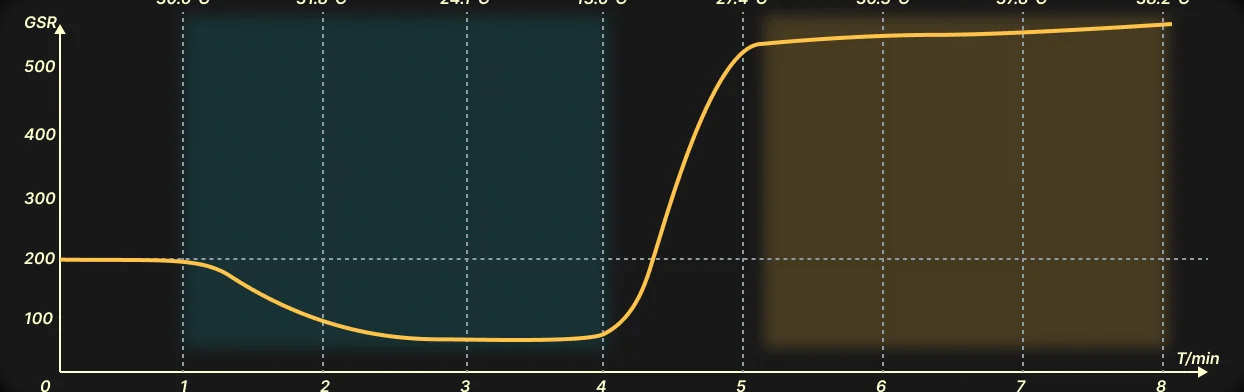
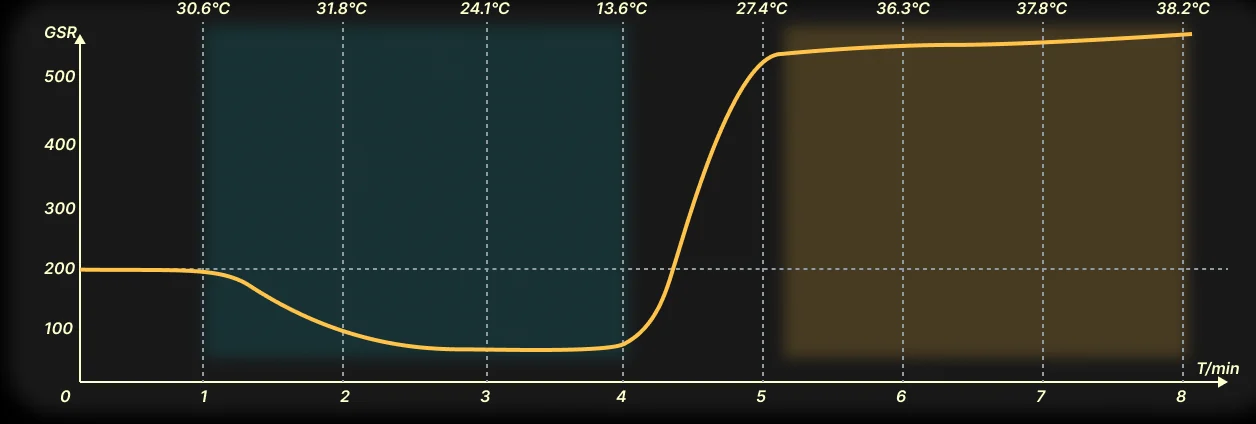
Bio-Adaptive: full chart crops, split schematic, cleaner wearable and bed layouts, text-free heating/cooling renders
Claude-Session: https://claude.ai/code/session_01XeHpuxAMHs1wL3HRrsMEM6

diff --git a/src/pages/BioCaseStudy.tsx b/src/pages/BioCaseStudy.tsx
@@ -73,9 +73,10 @@ const GALLERY: StoryImage[] = [
   img('b_g2a', 512, 380, 'Second participant with sensors, initial state', 'Group 2, initial state.'),
   img('b_g2b', 516, 380, 'Second participant over ice', 'Group 2, cold.'),
   img('b_g2c', 540, 380, 'Second participant in the sun', 'Group 2, hot.'),
-  img('b_gsrplot', 1244, 392, 'GSR over time through the cold and hot phases', 'GSR: it falls in the cold and climbs steeply in the heat.'),
-  img('b_wetplot', 1244, 400, 'Skin wettedness over time through the cold and hot phases', 'Skin wettedness follows the same course.'),
-  img('b_schem', 1800, 357, 'Block diagram and schematics: MCU, battery, pulse and SpO2, GSR, wettedness', 'Schematic: demo board and sensor circuits.'),
+  img('b_gsrplot', 1256, 424, 'GSR over time through the cold and hot phases', 'GSR: it falls in the cold and climbs steeply in the heat.'),
+  img('b_wetplot', 1256, 404, 'Skin wettedness over time through the cold and hot phases', 'Skin wettedness follows the same course.'),
+  img('b_block', 752, 472, 'Block diagram: ESP32 MCU with battery, power, pulse and SpO2, wettedness, GSR, Type-C and antenna', 'System: ESP32-PICO-D4 at the centre.'),
+  img('b_schem', 1448, 480, 'Schematics of the demo board and the three sensor circuits', 'Schematic: demo board and sensor circuits.'),
   img('b_layout', 776, 420, 'PCB layout in JLCPCB EDA', 'Layout.'),
   img('b_pcbfb', 816, 424, 'PCB front and back layers', 'Front and back.'),
   img('b_fpc1', 508, 420, 'Flexible circuit worn across the fingers', 'FPC on the hand.'),
@@ -94,8 +95,8 @@ const GALLERY: StoryImage[] = [
   img('b_mod1', 928, 544, 'Modelling the bed rail in SolidWorks', 'Modelling the rail.'),
   img('b_mod2', 928, 544, 'Rendering the bed in KeyShot', 'Rendering.'),
   img('b_bed', 1800, 1350, 'The bed with its screen, electric fan unit and infrared heating rails called out', 'Screen, electric machinery and heating system.'),
-  img('b_heat', 1800, 669, 'The bed glowing warm with the heating on', 'Heating.'),
-  img('b_cool', 1800, 669, 'The bed with cool air flowing along it', 'Cooling.'),
+  img('b_heat', 1800, 955, 'The bed glowing warm with the heating on', 'Heating.'),
+  img('b_cool', 1800, 955, 'The bed with cool air flowing along it', 'Cooling.'),
 ];
 const g = (name: string) => GALLERY.find(x => x.src === `${M}/${name}.webp`)!;
 
@@ -486,7 +487,12 @@ const BioCaseStudy = ({ project, prev, next }: { project: ProjectData; prev: Pro
               </p>
             </Reveal>
           </div>
-          <Reveal><div className="cs-gap-top"><Shot i={g('b_schem')} open={open} /></div></Reveal>
+          <Reveal>
+            <div className="cs-row cs-gap-top">
+              <Shot i={g('b_block')} open={open} />
+              <Shot i={g('b_schem')} open={open} />
+            </div>
+          </Reveal>
           <Reveal>
             <div className="cs-row cs-gap-top">
               <Shot i={g('b_layout')} open={open} />
@@ -513,14 +519,19 @@ const BioCaseStudy = ({ project, prev, next }: { project: ProjectData; prev: Pro
       <section className="cs-sec">
         <div className="cs-wrap">
           <SectionHead index="07" label="Wearable" title="Sketched, modelled, worn." />
-          <Reveal>
-            <div className="cs-row">
-              <Shot i={g('b_sketch')} open={open} />
-              <Shot i={g('b_alias')} open={open} />
-            </div>
-          </Reveal>
+          <div className="cs-split">
+            <div />
+            <Reveal>
+              <p className="cs-body">
+                The circuit wraps the back of the hand and reaches two fingers, where the GSR electrodes sit. Hand
+                sketches settled the form, Alias turned it into a shell, and the flexible board went inside it.
+              </p>
+            </Reveal>
+          </div>
+          <Reveal><div className="cs-gap-top"><Shot i={g('b_sketch')} open={open} /></div></Reveal>
           <Reveal>
             <div className="cs-row cs-gap-top">
+              <Shot i={g('b_alias')} open={open} />
               <Shot i={g('b_glove')} open={open} />
               <Shot i={g('b_proto1')} open={open} />
             </div>
@@ -560,7 +571,16 @@ const BioCaseStudy = ({ project, prev, next }: { project: ProjectData; prev: Pro
               <Shot i={g('b_mod2')} open={open} />
             </div>
           </Reveal>
-          <Reveal><div className="cs-gap-top"><Shot i={g('b_bed')} open={open} /></div></Reveal>
+          <div className="bi-bed cs-gap-top">
+            <Reveal>
+              <ol className="bi-parts">
+                <li><span className="n">01</span><h4>Screen</h4><p>Heart rate, blood oxygen and the patient's thermal demand in real time: data for the regulation.</p></li>
+                <li><span className="n">02</span><h4>Electric machinery</h4><p>Compresses air to raise the static pressure at the inlet, so it leaves the slits fast enough to cool.</p></li>
+                <li><span className="n">03</span><h4>Heating system</h4><p>Infrared heating along the rails, for precise, even warmth.</p></li>
+              </ol>
+            </Reveal>
+            <Reveal delay={100}><Shot i={g('b_bed')} open={open} cap={false} /></Reveal>
+          </div>
         </div>
       </section>
 

diff --git a/src/components/casestudy/bio.css b/src/components/casestudy/bio.css
@@ -152,7 +152,7 @@
 .is-cool .bi-switch button[aria-checked='true'] { background: var(--cool); color: #04191a; box-shadow: 0 0 24px rgba(79, 227, 224, 0.5); }
 .bi-modes-grid { display: grid; grid-template-columns: 1fr; gap: 36px; align-items: start; }
 @media (min-width: 900px) { .bi-modes-grid { grid-template-columns: 8fr 4fr; gap: 56px; } }
-.bi-stage { position: relative; display: block; width: 100%; aspect-ratio: 1800 / 669; padding: 0; border: 0; border-radius: 4px; overflow: hidden; background: #111; cursor: zoom-in; }
+.bi-stage { position: relative; display: block; width: 100%; aspect-ratio: 1800 / 955; padding: 0; border: 0; border-radius: 4px; overflow: hidden; background: #111; cursor: zoom-in; }
 .bi-stage img { position: absolute; inset: 0; width: 100%; height: 100%; object-fit: cover; opacity: 0; transition: opacity 1s var(--ease); }
 .bi-stage img.is-on { opacity: 1; }
 .bi-mode-text { margin-top: 28px; animation: cs-rise 0.8s var(--ease) both; }
@@ -169,3 +169,13 @@
 
 /* ---------- close ---------- */
 .bi-close-dot { display: block; width: 12px; height: 12px; border-radius: 50%; margin: 0 auto 48px; background: linear-gradient(90deg, var(--heat) 50%, var(--cool) 50%); box-shadow: -14px 0 30px rgba(255, 179, 71, 0.45), 14px 0 30px rgba(79, 227, 224, 0.45); }
+
+/* bed callouts beside a smaller render */
+.bi-bed { display: grid; grid-template-columns: 1fr; gap: 32px; align-items: center; }
+@media (min-width: 900px) { .bi-bed { grid-template-columns: 5fr 7fr; gap: 64px; } }
+.bi-parts { list-style: none; margin: 0; padding: 0; border-top: 1px solid var(--ink); }
+.bi-parts li { padding: 18px 0; border-bottom: 1px solid var(--rule); }
+.bi-parts .n { font-family: var(--mono); font-size: 11px; color: var(--amber); }
+.bi-parts h4 { font-size: 18px; font-weight: 500; margin: 8px 0 4px; }
+.bi-parts p { margin: 0; font-size: 14.5px; line-height: 1.6; color: var(--ink-2); }
+.bi-bed .cs-frame { background: #8fb0ff !important; }
